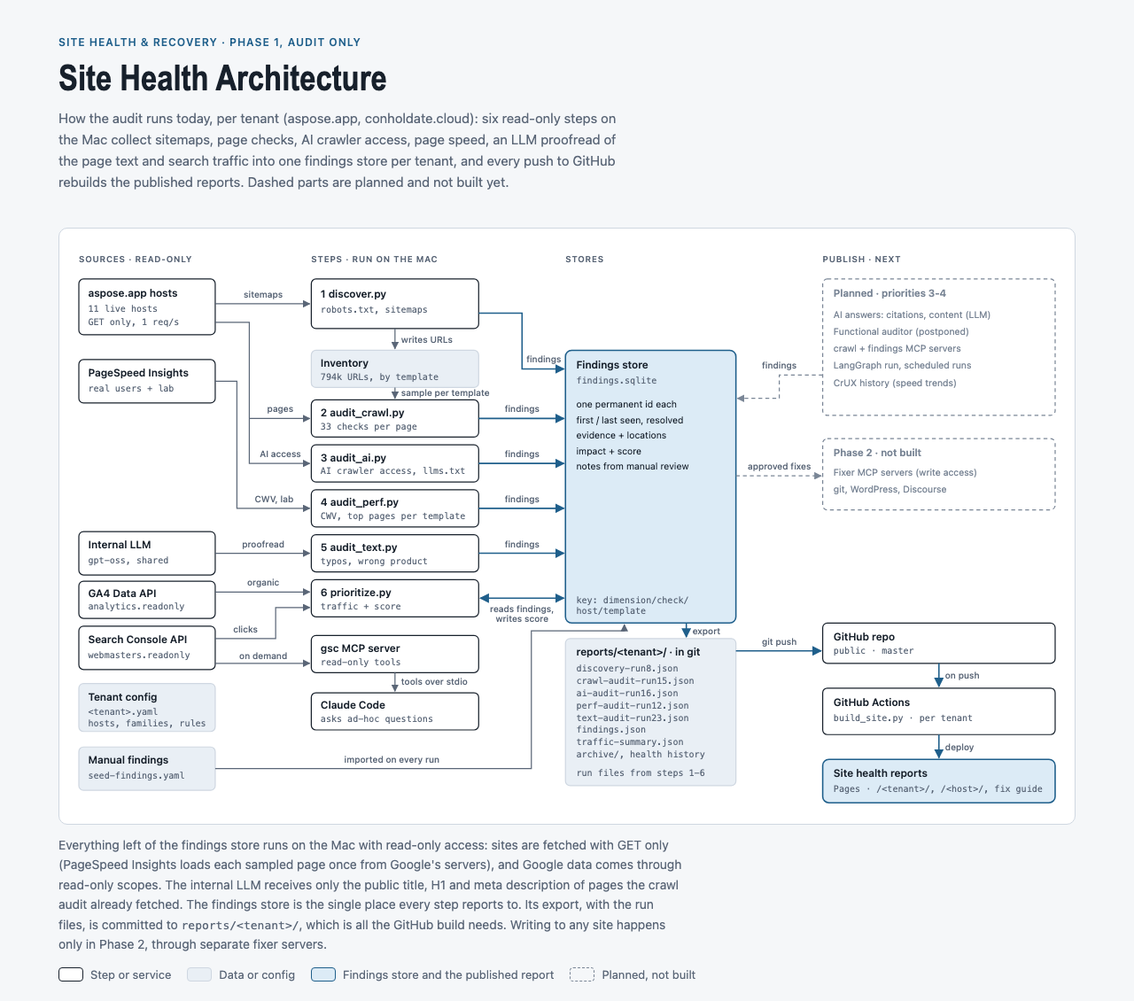
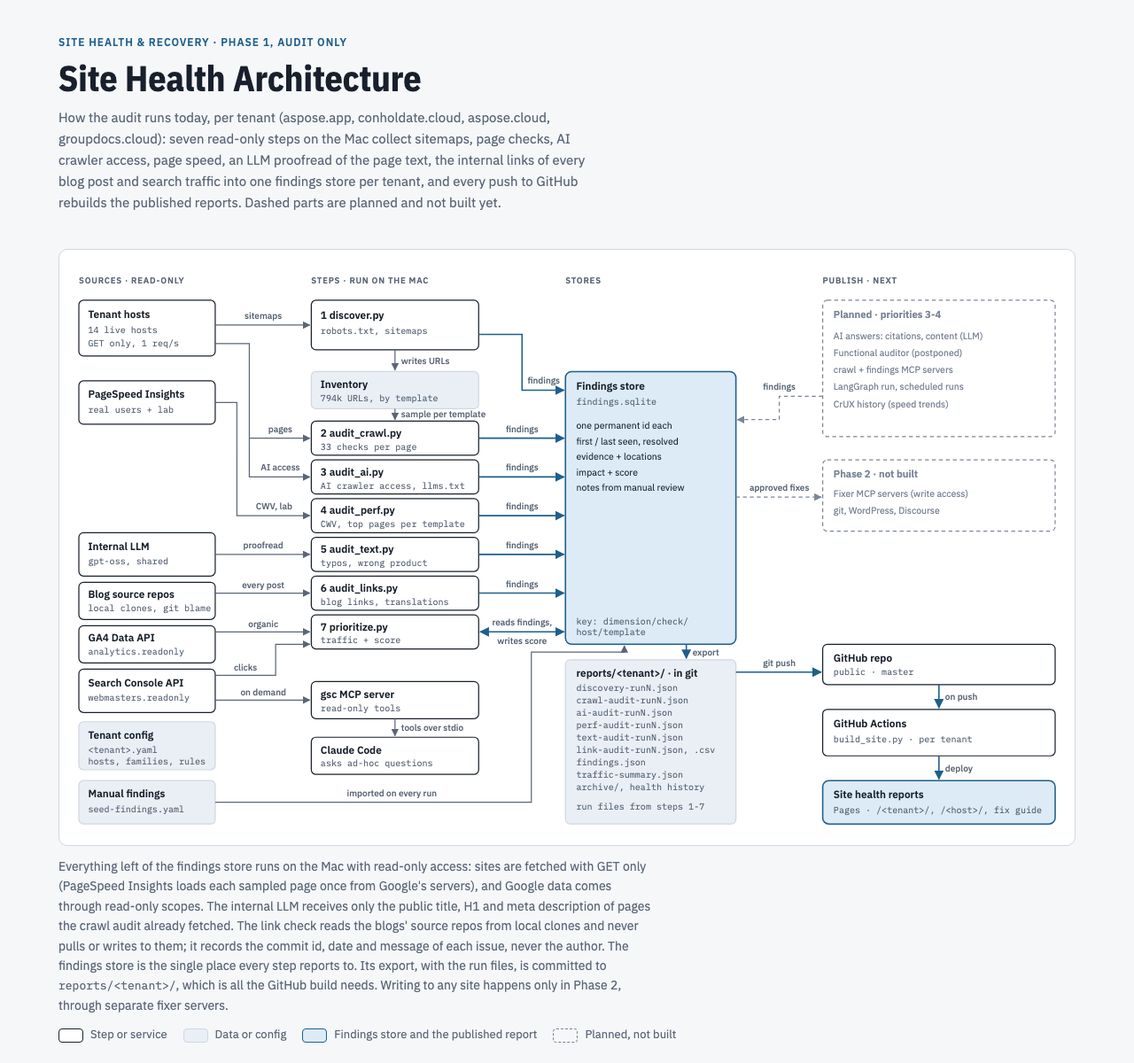
Architecture diagram: blog source repos and the link check (step 6)
Assisted by Claude Code

diff --git a/docs/architecture/site-health-architecture.html b/docs/architecture/site-health-architecture.html
@@ -87,12 +87,12 @@ td.step { font: 700 18px var(--display); color: var(--accent); width: 40px }
   <header>
     <div class="eyebrow">Site Health &amp; Recovery · Phase 1, audit only</div>
     <h1>Site Health Architecture</h1>
-    <p class="lede">How the audit runs today, per tenant (aspose.app, conholdate.cloud): six read-only steps on the Mac collect sitemaps, page checks, AI crawler access, page speed, an LLM proofread of the page text and search traffic into one findings store per tenant, and every push to GitHub rebuilds the published reports. Dashed parts are planned and not built yet.</p>
+    <p class="lede">How the audit runs today, per tenant (aspose.app, conholdate.cloud, aspose.cloud, groupdocs.cloud): seven read-only steps on the Mac collect sitemaps, page checks, AI crawler access, page speed, an LLM proofread of the page text, the internal links of every blog post and search traffic into one findings store per tenant, and every push to GitHub rebuilds the published reports. Dashed parts are planned and not built yet.</p>
   </header>
 
   <figure>
     <div class="scroll">
-      <svg viewBox="0 0 1292 750" role="img" aria-label="Data flow: live sites, PageSpeed Insights, Search Console and GA4 feed six steps on the Mac (discover, crawl audit, AI audit, speed audit, text check with an internal LLM, prioritize); their findings go into one findings store, which is exported to the reports folder in git; a push to GitHub triggers GitHub Actions to rebuild and publish the site health report on GitHub Pages. Planned auditors and Phase 2 fixer servers are drawn dashed.">
+      <svg viewBox="0 0 1292 750" role="img" aria-label="Data flow: live sites, PageSpeed Insights, an internal LLM, the blogs' source repos, Search Console and GA4 feed seven steps on the Mac (discover, crawl audit, AI audit, speed audit, text check, link check, prioritize); their findings go into one findings store, which is exported to the reports folder in git; a push to GitHub triggers GitHub Actions to rebuild and publish the site health reports on GitHub Pages. Planned auditors and Phase 2 fixer servers are drawn dashed.">
         <defs>
           <marker id="ah" viewBox="0 0 10 10" refX="9" refY="5" markerWidth="7" markerHeight="7" orient="auto-start-reverse"><path d="M0,0 L10,5 L0,10 z" class="d-head"/></marker>
           <marker id="ahk" viewBox="0 0 10 10" refX="9" refY="5" markerWidth="7" markerHeight="7" orient="auto-start-reverse"><path d="M0,0 L10,5 L0,10 z" class="d-head key"/></marker>
@@ -107,34 +107,38 @@ td.step { font: 700 18px var(--display); color: var(--accent); width: 40px }
 
         <!-- sources -->
         <rect class="d-box" x="16" y="56" width="176" height="72" rx="6"/>
-        <text class="d-t" x="28" y="79">aspose.app hosts</text>
-        <text class="d-s" x="28" y="98">11 live hosts</text>
+        <text class="d-t" x="28" y="79">Tenant hosts</text>
+        <text class="d-s" x="28" y="98">14 live hosts</text>
         <text class="d-s" x="28" y="115">GET only, 1 req/s</text>
 
         <rect class="d-box" x="16" y="160" width="176" height="56" rx="6"/>
         <text class="d-t" x="28" y="182">PageSpeed Insights</text>
         <text class="d-s" x="28" y="201">real users + lab</text>
 
-        <rect class="d-box" x="16" y="382" width="176" height="56" rx="6"/>
-        <text class="d-t" x="28" y="404">Internal LLM</text>
-        <text class="d-s" x="28" y="423">gpt-oss, shared</text>
+        <rect class="d-box" x="16" y="356" width="176" height="56" rx="6"/>
+        <text class="d-t" x="28" y="378">Internal LLM</text>
+        <text class="d-s" x="28" y="397">gpt-oss, shared</text>
 
-        <rect class="d-box" x="16" y="446" width="176" height="48" rx="6"/>
-        <text class="d-t" x="28" y="466">GA4 Data API</text>
-        <text class="d-s" x="28" y="483">analytics.readonly</text>
+        <rect class="d-box" x="16" y="420" width="176" height="48" rx="6"/>
+        <text class="d-t" x="28" y="440">Blog source repos</text>
+        <text class="d-s" x="28" y="457">local clones, git blame</text>
 
-        <rect class="d-box" x="16" y="504" width="176" height="56" rx="6"/>
-        <text class="d-t" x="28" y="526">Search Console API</text>
-        <text class="d-s" x="28" y="545">webmasters.readonly</text>
+        <rect class="d-box" x="16" y="476" width="176" height="48" rx="6"/>
+        <text class="d-t" x="28" y="496">GA4 Data API</text>
+        <text class="d-s" x="28" y="513">analytics.readonly</text>
 
-        <rect class="d-store" x="16" y="578" width="176" height="62" rx="6"/>
-        <text class="d-t" x="28" y="600">Tenant config</text>
-        <text class="d-s" x="28" y="618">&lt;tenant&gt;.yaml</text>
-        <text class="d-s" x="28" y="633">hosts, families, rules</text>
+        <rect class="d-box" x="16" y="532" width="176" height="56" rx="6"/>
+        <text class="d-t" x="28" y="554">Search Console API</text>
+        <text class="d-s" x="28" y="573">webmasters.readonly</text>
 
-        <rect class="d-store" x="16" y="660" width="176" height="56" rx="6"/>
-        <text class="d-t" x="28" y="682">Manual findings</text>
-        <text class="d-s" x="28" y="701">seed-findings.yaml</text>
+        <rect class="d-store" x="16" y="600" width="176" height="62" rx="6"/>
+        <text class="d-t" x="28" y="622">Tenant config</text>
+        <text class="d-s" x="28" y="640">&lt;tenant&gt;.yaml</text>
+        <text class="d-s" x="28" y="655">hosts, families, rules</text>
+
+        <rect class="d-store" x="16" y="676" width="176" height="56" rx="6"/>
+        <text class="d-t" x="28" y="698">Manual findings</text>
+        <text class="d-s" x="28" y="717">seed-findings.yaml</text>
 
         <!-- steps -->
         <rect class="d-box" x="316" y="56" width="216" height="64" rx="6"/>
@@ -145,33 +149,37 @@ td.step { font: 700 18px var(--display); color: var(--accent); width: 40px }
         <text class="d-t" x="328" y="169">Inventory</text>
         <text class="d-s" x="328" y="186">794k URLs, by template</text>
 
-        <rect class="d-box" x="316" y="212" width="216" height="48" rx="6"/>
-        <text class="d-t" x="328" y="233">2  audit_crawl.py</text>
-        <text class="d-s" x="328" y="250">33 checks per page</text>
+        <rect class="d-box" x="316" y="212" width="216" height="44" rx="6"/>
+        <text class="d-t" x="328" y="232">2  audit_crawl.py</text>
+        <text class="d-s" x="328" y="249">33 checks per page</text>
 
-        <rect class="d-box" x="316" y="270" width="216" height="48" rx="6"/>
-        <text class="d-t" x="328" y="291">3  audit_ai.py</text>
-        <text class="d-s" x="328" y="308">AI crawler access, llms.txt</text>
+        <rect class="d-box" x="316" y="262" width="216" height="44" rx="6"/>
+        <text class="d-t" x="328" y="282">3  audit_ai.py</text>
+        <text class="d-s" x="328" y="299">AI crawler access, llms.txt</text>
 
-        <rect class="d-box" x="316" y="328" width="216" height="48" rx="6"/>
-        <text class="d-t" x="328" y="349">4  audit_perf.py</text>
-        <text class="d-s" x="328" y="366">CWV, top pages per template</text>
+        <rect class="d-box" x="316" y="312" width="216" height="44" rx="6"/>
+        <text class="d-t" x="328" y="332">4  audit_perf.py</text>
+        <text class="d-s" x="328" y="349">CWV, top pages per template</text>
 
-        <rect class="d-box" x="316" y="386" width="216" height="48" rx="6"/>
-        <text class="d-t" x="328" y="407">5  audit_text.py</text>
-        <text class="d-s" x="328" y="424">typos, wrong product</text>
+        <rect class="d-box" x="316" y="362" width="216" height="44" rx="6"/>
+        <text class="d-t" x="328" y="382">5  audit_text.py</text>
+        <text class="d-s" x="328" y="399">typos, wrong product</text>
 
-        <rect class="d-box" x="316" y="444" width="216" height="48" rx="6"/>
-        <text class="d-t" x="328" y="465">6  prioritize.py</text>
-        <text class="d-s" x="328" y="482">traffic + score</text>
+        <rect class="d-box" x="316" y="412" width="216" height="44" rx="6"/>
+        <text class="d-t" x="328" y="432">6  audit_links.py</text>
+        <text class="d-s" x="328" y="449">blog links, translations</text>
 
-        <rect class="d-box" x="316" y="516" width="216" height="48" rx="6"/>
-        <text class="d-t" x="328" y="537">gsc MCP server</text>
-        <text class="d-s" x="328" y="554">read-only tools</text>
+        <rect class="d-box" x="316" y="462" width="216" height="44" rx="6"/>
+        <text class="d-t" x="328" y="482">7  prioritize.py</text>
+        <text class="d-s" x="328" y="499">traffic + score</text>
 
-        <rect class="d-box" x="316" y="590" width="216" height="48" rx="6"/>
-        <text class="d-t" x="328" y="611">Claude Code</text>
-        <text class="d-s" x="328" y="628">asks ad-hoc questions</text>
+        <rect class="d-box" x="316" y="548" width="216" height="48" rx="6"/>
+        <text class="d-t" x="328" y="569">gsc MCP server</text>
+        <text class="d-s" x="328" y="586">read-only tools</text>
+
+        <rect class="d-box" x="316" y="620" width="216" height="48" rx="6"/>
+        <text class="d-t" x="328" y="641">Claude Code</text>
+        <text class="d-s" x="328" y="658">asks ad-hoc questions</text>
 
         <!-- stores -->
         <rect class="d-key" x="644" y="148" width="220" height="352" rx="8"/>
@@ -185,17 +193,18 @@ td.step { font: 700 18px var(--display); color: var(--accent); width: 40px }
         <text class="d-s" x="658" y="474">key: dimension/check/</text>
         <text class="d-s" x="658" y="488">host/template</text>
 
-        <rect class="d-store" x="644" y="520" width="220" height="190" rx="6"/>
+        <rect class="d-store" x="644" y="520" width="220" height="212" rx="6"/>
         <text class="d-t" x="658" y="542">reports/&lt;tenant&gt;/ · in git</text>
-        <text class="d-s" x="658" y="562">discovery-run8.json</text>
-        <text class="d-s" x="658" y="578">crawl-audit-run15.json</text>
-        <text class="d-s" x="658" y="594">ai-audit-run16.json</text>
-        <text class="d-s" x="658" y="610">perf-audit-run12.json</text>
-        <text class="d-s" x="658" y="626">text-audit-run23.json</text>
-        <text class="d-s" x="658" y="642">findings.json</text>
-        <text class="d-s" x="658" y="658">traffic-summary.json</text>
-        <text class="d-s" x="658" y="674">archive/, health history</text>
-        <text class="d-s" x="658" y="698">run files from steps 1-6</text>
+        <text class="d-s" x="658" y="560">discovery-runN.json</text>
+        <text class="d-s" x="658" y="576">crawl-audit-runN.json</text>
+        <text class="d-s" x="658" y="592">ai-audit-runN.json</text>
+        <text class="d-s" x="658" y="608">perf-audit-runN.json</text>
+        <text class="d-s" x="658" y="624">text-audit-runN.json</text>
+        <text class="d-s" x="658" y="640">link-audit-runN.json, .csv</text>
+        <text class="d-s" x="658" y="656">findings.json</text>
+        <text class="d-s" x="658" y="672">traffic-summary.json</text>
+        <text class="d-s" x="658" y="688">archive/, health history</text>
+        <text class="d-s" x="658" y="714">run files from steps 1-7</text>
 
         <!-- planned and phase 2 -->
         <rect class="d-plan" x="976" y="56" width="300" height="176" rx="6"/>
@@ -228,51 +237,56 @@ td.step { font: 700 18px var(--display); color: var(--accent); width: 40px }
         <line class="d-a" x1="192" y1="88" x2="314" y2="88" marker-end="url(#ah)"/>
         <text class="d-lab" x="254" y="80" text-anchor="middle">sitemaps</text>
 
-        <polyline class="d-a" points="192,112 236,112 236,294 314,294" marker-end="url(#ah)"/>
-        <line class="d-a" x1="236" y1="236" x2="314" y2="236" marker-end="url(#ah)"/>
-        <text class="d-lab" x="276" y="228" text-anchor="middle">pages</text>
-        <text class="d-lab" x="276" y="286" text-anchor="middle">AI access</text>
+        <polyline class="d-a" points="192,112 236,112 236,284 314,284" marker-end="url(#ah)"/>
+        <line class="d-a" x1="236" y1="234" x2="314" y2="234" marker-end="url(#ah)"/>
+        <text class="d-lab" x="276" y="226" text-anchor="middle">pages</text>
+        <text class="d-lab" x="276" y="276" text-anchor="middle">AI access</text>
 
-        <polyline class="d-a" points="192,188 220,188 220,352 314,352" marker-end="url(#ah)"/>
-        <text class="d-lab" x="268" y="344" text-anchor="middle">CWV, lab</text>
+        <polyline class="d-a" points="192,188 220,188 220,334 314,334" marker-end="url(#ah)"/>
+        <text class="d-lab" x="268" y="326" text-anchor="middle">CWV, lab</text>
 
-        <line class="d-a" x1="192" y1="410" x2="314" y2="410" marker-end="url(#ah)"/>
-        <text class="d-lab" x="254" y="402" text-anchor="middle">proofread</text>
+        <line class="d-a" x1="192" y1="384" x2="314" y2="384" marker-end="url(#ah)"/>
+        <text class="d-lab" x="254" y="376" text-anchor="middle">proofread</text>
 
-        <line class="d-a" x1="192" y1="460" x2="314" y2="460" marker-end="url(#ah)"/>
-        <text class="d-lab" x="254" y="452" text-anchor="middle">organic</text>
+        <line class="d-a" x1="192" y1="434" x2="314" y2="434" marker-end="url(#ah)"/>
+        <text class="d-lab" x="254" y="428" text-anchor="middle">every post</text>
 
-        <polyline class="d-a" points="192,520 270,520 270,480 314,480" marker-end="url(#ah)"/>
-        <text class="d-lab" x="231" y="512" text-anchor="middle">clicks</text>
+        <line class="d-a" x1="192" y1="484" x2="314" y2="484" marker-end="url(#ah)"/>
+        <text class="d-lab" x="254" y="478" text-anchor="middle">organic</text>
 
-        <line class="d-a" x1="192" y1="552" x2="314" y2="552" marker-end="url(#ah)"/>
-        <text class="d-lab" x="254" y="546" text-anchor="middle">on demand</text>
+        <polyline class="d-a" points="192,540 270,540 270,500 314,500" marker-end="url(#ah)"/>
+        <text class="d-lab" x="231" y="534" text-anchor="middle">clicks</text>
+
+        <line class="d-a" x1="192" y1="572" x2="314" y2="572" marker-end="url(#ah)"/>
+        <text class="d-lab" x="254" y="566" text-anchor="middle">on demand</text>
 
         <!-- arrows: within the steps column -->
         <line class="d-a" x1="424" y1="120" x2="424" y2="146" marker-end="url(#ah)"/>
         <text class="d-lab" x="432" y="138">writes URLs</text>
         <line class="d-a" x1="424" y1="196" x2="424" y2="210" marker-end="url(#ah)"/>
         <text class="d-lab" x="432" y="207">sample per template</text>
-        <line class="d-a" x1="424" y1="564" x2="424" y2="588" marker-end="url(#ah)"/>
-        <text class="d-lab" x="432" y="580">tools over stdio</text>
+        <line class="d-a" x1="424" y1="596" x2="424" y2="618" marker-end="url(#ah)"/>
+        <text class="d-lab" x="432" y="612">tools over stdio</text>
 
         <!-- arrows: steps to findings store -->
         <polyline class="d-a key" points="532,100 588,100 588,172 642,172" marker-end="url(#ahk)"/>
         <text class="d-lab" x="616" y="164" text-anchor="middle">findings</text>
-        <line class="d-a key" x1="532" y1="236" x2="642" y2="236" marker-end="url(#ahk)"/>
-        <text class="d-lab" x="588" y="228" text-anchor="middle">findings</text>
-        <line class="d-a key" x1="532" y1="294" x2="642" y2="294" marker-end="url(#ahk)"/>
-        <text class="d-lab" x="588" y="286" text-anchor="middle">findings</text>
-        <line class="d-a key" x1="532" y1="352" x2="642" y2="352" marker-end="url(#ahk)"/>
-        <text class="d-lab" x="588" y="344" text-anchor="middle">findings</text>
-        <line class="d-a key" x1="532" y1="410" x2="642" y2="410" marker-end="url(#ahk)"/>
-        <text class="d-lab" x="588" y="402" text-anchor="middle">findings</text>
-        <line class="d-a key" x1="534" y1="468" x2="642" y2="468" marker-start="url(#ahk)" marker-end="url(#ahk)"/>
-        <text class="d-lab" x="588" y="486" text-anchor="middle">reads findings,</text>
-        <text class="d-lab" x="588" y="499" text-anchor="middle">writes score</text>
+        <line class="d-a key" x1="532" y1="234" x2="642" y2="234" marker-end="url(#ahk)"/>
+        <text class="d-lab" x="588" y="226" text-anchor="middle">findings</text>
+        <line class="d-a key" x1="532" y1="284" x2="642" y2="284" marker-end="url(#ahk)"/>
+        <text class="d-lab" x="588" y="276" text-anchor="middle">findings</text>
+        <line class="d-a key" x1="532" y1="334" x2="642" y2="334" marker-end="url(#ahk)"/>
+        <text class="d-lab" x="588" y="326" text-anchor="middle">findings</text>
+        <line class="d-a key" x1="532" y1="384" x2="642" y2="384" marker-end="url(#ahk)"/>
+        <text class="d-lab" x="588" y="376" text-anchor="middle">findings</text>
+        <line class="d-a key" x1="532" y1="434" x2="642" y2="434" marker-end="url(#ahk)"/>
+        <text class="d-lab" x="588" y="426" text-anchor="middle">findings</text>
+        <line class="d-a key" x1="534" y1="484" x2="642" y2="484" marker-start="url(#ahk)" marker-end="url(#ahk)"/>
+        <text class="d-lab" x="588" y="476" text-anchor="middle">reads findings,</text>
+        <text class="d-lab" x="588" y="500" text-anchor="middle">writes score</text>
 
-        <polyline class="d-a" points="192,688 600,688 600,510 720,510 720,502" marker-end="url(#ah)"/>
-        <text class="d-lab" x="420" y="680" text-anchor="middle">imported on every run</text>
+        <polyline class="d-a" points="192,704 600,704 600,510 720,510 720,502" marker-end="url(#ah)"/>
+        <text class="d-lab" x="420" y="696" text-anchor="middle">imported on every run</text>
 
         <!-- store to reports to publish -->
         <line class="d-a key" x1="800" y1="500" x2="800" y2="518" marker-end="url(#ahk)"/>
@@ -291,7 +305,7 @@ td.step { font: 700 18px var(--display); color: var(--accent); width: 40px }
         <text class="d-lab" x="920" y="302" text-anchor="middle">approved fixes</text>
       </svg>
     </div>
-    <figcaption>Everything left of the findings store runs on the Mac with read-only access: sites are fetched with GET only (PageSpeed Insights loads each sampled page once from Google's servers), and Google data comes through read-only scopes. The internal LLM receives only the public title, H1 and meta description of pages the crawl audit already fetched. The findings store is the single place every step reports to. Its export, with the run files, is committed to <code>reports/&lt;tenant&gt;/</code>, which is all the GitHub build needs. Writing to any site happens only in Phase 2, through separate fixer servers.</figcaption>
+    <figcaption>Everything left of the findings store runs on the Mac with read-only access: sites are fetched with GET only (PageSpeed Insights loads each sampled page once from Google's servers), and Google data comes through read-only scopes. The internal LLM receives only the public title, H1 and meta description of pages the crawl audit already fetched. The link check reads the blogs' source repos from local clones and never pulls or writes to them; it records the commit id, date and message of each issue, never the author. The findings store is the single place every step reports to. Its export, with the run files, is committed to <code>reports/&lt;tenant&gt;/</code>, which is all the GitHub build needs. Writing to any site happens only in Phase 2, through separate fixer servers.</figcaption>
     <div class="legend">
       <span><i class="sw"></i>Step or service</span>
       <span><i class="sw store"></i>Data or config</span>
@@ -311,9 +325,10 @@ td.step { font: 700 18px var(--display); color: var(--accent); width: 40px }
           <tr><td class="step">3</td><td><code>python scripts/audit_ai.py</code></td><td>each host's robots.txt (rules for AI search and training crawlers), its homepage as each AI crawler, /llms.txt per host and per product family</td><td>AI access findings (AI search crawlers blocked by robots.txt or the firewall, missing or broken llms.txt), <code>reports/&lt;tenant&gt;/ai-audit-runN.json</code></td><td>5 min</td></tr>
           <tr><td class="step">4</td><td><code>python scripts/audit_perf.py</code></td><td>PageSpeed Insights for the 2 most-visited pages of each crawl-audit template (mobile): Core Web Vitals from real Chrome users (28 days, 75th percentile) and a Lighthouse lab run</td><td>speed findings (real-user LCP, INP, CLS, TTFB; pages that do not load or paint nothing; whole-host Core Web Vitals), <code>reports/&lt;tenant&gt;/perf-audit-runN.json</code></td><td>40 min</td></tr>
           <tr><td class="step">5</td><td><code>python scripts/audit_text.py</code></td><td>title, H1 and meta description of every crawl-audit page (no requests to the sites), proofread by the internal LLM in each page's language; answers cached per page text</td><td>wording findings (typos; placeholder or garbled words; a title about a different product), each quoting the page, <code>reports/&lt;tenant&gt;/text-audit-runN.json</code></td><td>5 min</td></tr>
-          <tr><td class="step">6</td><td><code>python scripts/prioritize.py</code></td><td>Search Console page clicks (now, previous 28 days, six months ago), GA4 organic sessions for hosts without Search Console</td><td>impact, traffic lost since six months ago and score on every finding, <code>reports/&lt;tenant&gt;/findings.json</code>, <code>reports/&lt;tenant&gt;/traffic-summary.json</code></td><td>1 min</td></tr>
-          <tr><td class="step">7</td><td><code>python scripts/build_report.py --snapshot "…"</code></td><td>the run files, findings and traffic summary</td><td>the local report, a frozen copy in <code>reports/&lt;tenant&gt;/archive/</code>, family health in <code>reports/&lt;tenant&gt;/health-history.json</code></td><td>seconds</td></tr>
-          <tr><td class="step">8</td><td><code>git push github master</code></td><td>the committed <code>reports/&lt;tenant&gt;/</code> files</td><td>GitHub Actions runs <code>build_site.py</code>: a landing page; per tenant the report (summary, family and host health, priorities, shared problems, findings, changes) at <code>/&lt;tenant&gt;/</code> with its archive; one page per host at <code>/&lt;host&gt;/</code>; one shared fix guide at <code>/fix-guide/</code> (all noindex)</td><td>1 min</td></tr>
+          <tr><td class="step">6</td><td><code>python scripts/audit_links.py</code></td><td>blogs with a local source repo only: every internal link in every post (outside code), checked against the discovery inventory, else fetched once from the live site; translation sets from the sitemaps; <code>git blame</code> for the commit of each issue</td><td>link and translation findings (link to a translation that does not exist, damaged or broken link, link in the wrong language, partial translation set, unsupported language), <code>reports/&lt;tenant&gt;/link-audit-runN.json</code> and the full fix list <code>link-audit-…-issues.csv</code></td><td>20 min</td></tr>
+          <tr><td class="step">7</td><td><code>python scripts/prioritize.py</code></td><td>Search Console page clicks (now, previous 28 days, six months ago), GA4 organic sessions for hosts without Search Console</td><td>impact, traffic lost since six months ago and score on every finding, <code>reports/&lt;tenant&gt;/findings.json</code>, <code>reports/&lt;tenant&gt;/traffic-summary.json</code></td><td>1 min</td></tr>
+          <tr><td class="step">8</td><td><code>python scripts/build_report.py --snapshot "…"</code></td><td>the run files, findings and traffic summary</td><td>the local report, a frozen copy in <code>reports/&lt;tenant&gt;/archive/</code>, family health in <code>reports/&lt;tenant&gt;/health-history.json</code></td><td>seconds</td></tr>
+          <tr><td class="step">9</td><td><code>git push github master</code></td><td>the committed <code>reports/&lt;tenant&gt;/</code> files</td><td>GitHub Actions runs <code>build_site.py</code>: a landing page; per tenant the report (summary, family and host health, priorities, shared problems, findings, changes) at <code>/&lt;tenant&gt;/</code> with its archive; one page per host at <code>/&lt;host&gt;/</code>; one shared fix guide at <code>/fix-guide/</code> (all noindex)</td><td>1 min</td></tr>
         </tbody>
       </table>
     </div>
@@ -324,7 +339,7 @@ td.step { font: 700 18px var(--display); color: var(--accent); width: 40px }
     <div class="rules">
       <div class="rule"><h3>Checks are code</h3><p>Status codes, canonicals, hreflang, sitemaps and scores are deterministic and repeatable. LLM agents come in only where judgment is needed: content accuracy, diagnosis, writing fixes. The first LLM step, the text check, only proofreads, and a finding is kept only when its wrong words are on the page.</p></div>
       <div class="rule"><h3>Read and write are separate</h3><p>Phase 1 has no write access to any site. Fixers are separate MCP servers with their own credentials, so an audit cannot change a site even by mistake.</p></div>
-      <div class="rule"><h3>One tenant file per property</h3><p>Nothing in <code>core/</code> names aspose.app. Hosts, families, URL templates, audit rules and the Google key live in <code>tenants/&lt;tenant&gt;.yaml</code> (aspose.app, conholdate.cloud); each tenant's stores and reports stay in its own <code>data/</code> and <code>reports/</code> folder.</p></div>
+      <div class="rule"><h3>One tenant file per property</h3><p>Nothing in <code>core/</code> names aspose.app. Hosts, families, URL templates, audit rules and the Google key live in <code>tenants/&lt;tenant&gt;.yaml</code> (aspose.app, conholdate.cloud, aspose.cloud, groupdocs.cloud); each tenant's stores and reports stay in its own <code>data/</code> and <code>reports/</code> folder.</p></div>
       <div class="rule"><h3>Findings are tracked, not re-listed</h3><p>Each finding keeps one id across runs. A later run that no longer sees it marks it resolved, and it reopens if it comes back. One template fix closes one finding.</p></div>
     </div>
   </section>
@@ -332,8 +347,8 @@ td.step { font: 700 18px var(--display); color: var(--accent); width: 40px }
   <section>
     <h2>Code layout</h2>
     <div class="layout">
-      <div class="dir">core/</div><div>Deterministic logic: discovery, page audit, AI-readiness audit, speed audit (PageSpeed Insights), text check (LLM client), findings store, prioritizer, family scorecards, fix guide, report views (confidence, shared problems, top risks, changes), Google clients</div><div><span class="tag built">built</span></div>
-      <div class="dir">scripts/</div><div>The commands (each takes <code>--tenant</code>): discover, audit_crawl, audit_ai, audit_perf, audit_text, prioritize, build_report, build_archive, build_site, findings, check_access</div><div><span class="tag built">built</span></div>
+      <div class="dir">core/</div><div>Deterministic logic: discovery, page audit, AI-readiness audit, speed audit (PageSpeed Insights), text check (LLM client), link check (blog source repos), findings store, prioritizer, family scorecards, fix guide, report views (confidence, shared problems, top risks, changes), Google clients</div><div><span class="tag built">built</span></div>
+      <div class="dir">scripts/</div><div>The commands (each takes <code>--tenant</code>): discover, audit_crawl, audit_ai, audit_perf, audit_text, audit_links, prioritize, build_report, build_archive, build_site, findings, check_access</div><div><span class="tag built">built</span></div>
       <div class="dir">mcp_servers/</div><div><code>gsc</code> is built; <code>crawl</code>, <code>findings</code>, <code>ga4</code>, <code>pagespeed</code> are next; fixers in Phase 2</div><div><span class="tag part">partly</span></div>
       <div class="dir">agents/</div><div>LangGraph agents that call the MCP servers: diagnosis, content checks, reporting</div><div><span class="tag planned">planned</span></div>
       <div class="dir">tenants/</div><div>One YAML per property, plus its manual findings</div><div><span class="tag built">built</span></div>

diff --git a/CLAUDE.md b/CLAUDE.md
@@ -45,7 +45,7 @@ Domain-agnostic agents that audit a web property, report what is broken, not opt
 **Scores today:** aspose.app hosts: about A 90, forum A 92, blog B 86, metrics B 85, www B 75, status C 67, dashboard C 62, releases C 60, products D 56 (families 72 by clicks − 16 host-wide; lowest /drawing/ F 19), websites D 48, purchase D 46. blog.conholdate.cloud B 86 (before the link check; not run there yet). blog.aspose.cloud C 66, blog.groupdocs.cloud C 73.
 
 **Next session, start with:**
-1. **Architecture diagram:** add the blog source repos (read-only input) and the link check (`docs/architecture/site-health-architecture.html`, PNG, republish to the same artifact URL).
+1. ~~Architecture diagram~~ Done 2026-10-26 (version 10: blog source repos, step 6 audit_links.py, prioritize is step 7).
 2. **Run the link check on conholdate.cloud** (repo scan found 4 wrong-language links in 3 files, no 404s); then its report gets the "Link check" source.
 3. **Priority 4** (`findings`, then `crawl` MCP servers). The functional auditor is **postponed** (SK, 2026-10-20).
 4. **Soft 404 fix (code only, 2026-10-20):** takes effect at the next aspose.app crawl run; then count how many psd (and other) sitemap URLs end at `page404` (see Status, "Text check").
@@ -56,7 +56,7 @@ Domain-agnostic agents that audit a web property, report what is broken, not opt
 
 **Live:**
 - Landing page https://shoaibkhan-aspose.github.io/health-and-recovery/; aspose.app https://shoaibkhan-aspose.github.io/health-and-recovery/aspose.app/ (archive https://shoaibkhan-aspose.github.io/health-and-recovery/aspose.app/archive/); conholdate.cloud https://shoaibkhan-aspose.github.io/health-and-recovery/conholdate.cloud/ (archive https://shoaibkhan-aspose.github.io/health-and-recovery/conholdate.cloud/archive/); aspose.cloud https://shoaibkhan-aspose.github.io/health-and-recovery/aspose.cloud/ (archive https://shoaibkhan-aspose.github.io/health-and-recovery/aspose.cloud/archive/); groupdocs.cloud https://shoaibkhan-aspose.github.io/health-and-recovery/groupdocs.cloud/ (archive https://shoaibkhan-aspose.github.io/health-and-recovery/groupdocs.cloud/archive/); fix guide https://shoaibkhan-aspose.github.io/health-and-recovery/fix-guide/; host pages https://shoaibkhan-aspose.github.io/health-and-recovery/<host>/. Rebuilt by GitHub Actions (`scripts/build_site.py`) on every push to `master`.
-- Architecture page (private, version 9 = host pages and fix guide in the publish step, 2026-10-20; PNG 1280x1130): https://claude.ai/artifact/3zrEcbrV1WxN9nfjvS7Kxm, source `docs/architecture/site-health-architecture.html`. Not yet updated for the link check.
+- Architecture page (private, version 10 = blog source repos and the link check as step 6, four tenants, 2026-10-26; PNG 1280x1200, headless Chrome `--window-size=1280,1200`): https://claude.ai/artifact/3zrEcbrV1WxN9nfjvS7Kxm, source `docs/architecture/site-health-architecture.html`.
 - Archive aspose.app (`reports/aspose.app/archive/`): 2026-10-12 (before the restructure), 2026-10-15 (before the speed audit), 2026-10-15-2 (after the speed audit), 2026-10-16 (before the AI audit), 2026-10-16-2 (after the AI audit and crawl audit run 15), 2026-10-20 (after the text check), -2 (text check run 23, before the per-tenant layout), -3 (host cards and shared fix guide), -4 (host table), -5 (products row), -6 (without api.products, before fixing the empty Reference tables).
 - Archive conholdate.cloud (`reports/conholdate.cloud/archive/`): 2026-10-20 (first run), -2 (after the text check, host health), -3 (host table; rebuilt from commit c63dbbf), -4 (before fixing the empty Reference tables).
 - Archive aspose.cloud and groupdocs.cloud: 2026-10-22 (first run).
